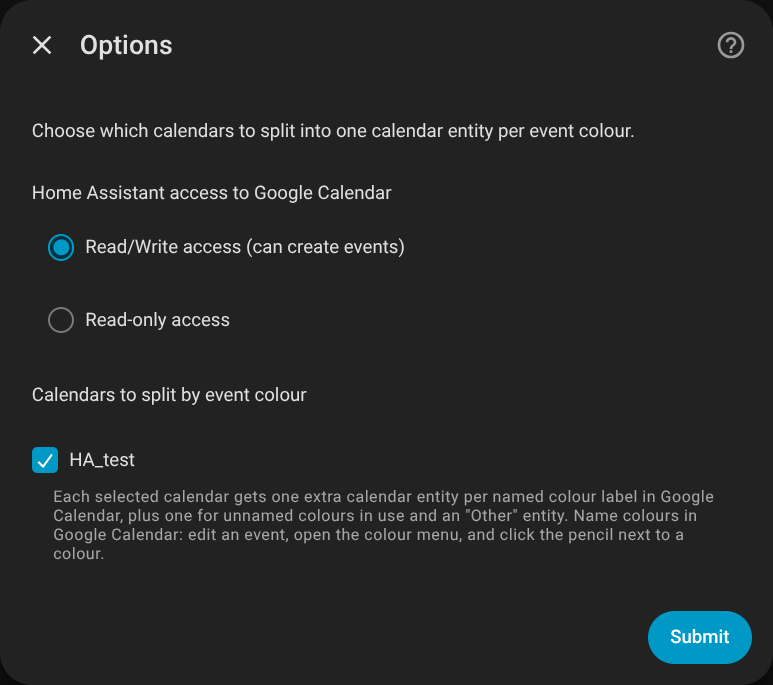
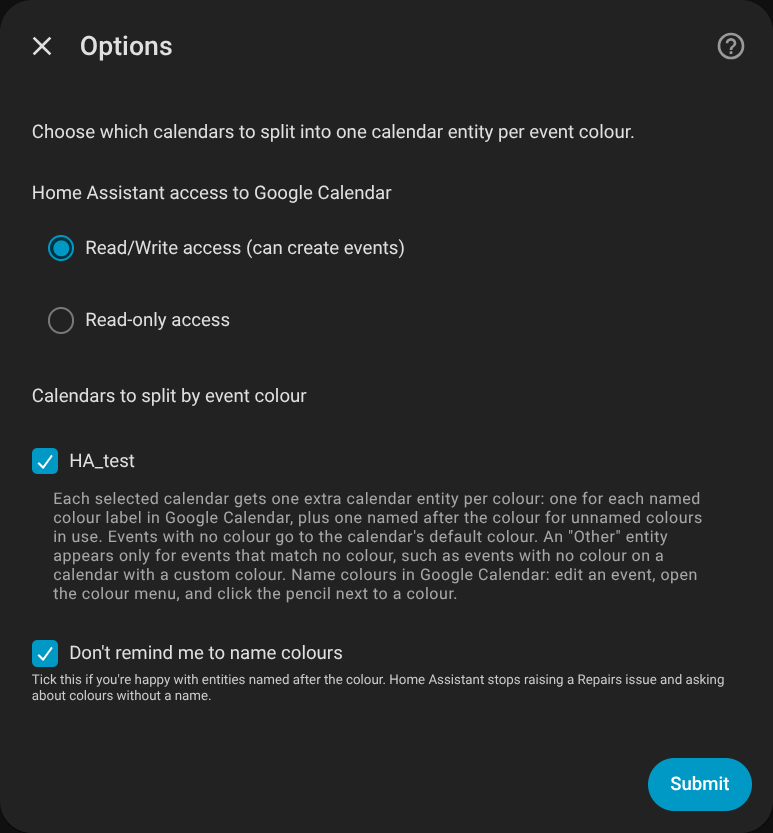
Update screenshots for the new option and Other only when needed
- 02: options dialog with the new help text and the "Don't remind me to
  name colours" checkbox
- 05, 06: calendar page and Add event dialog without the empty Other
  entity, showing unnamed colours named after the colour

diff --git a/README.md b/README.md
@@ -50,7 +50,7 @@ If a calendar uses colours that have no name yet, you're asked whether to split 
 If you're happy with entities named after the colour, tick **Don't remind me to name colours**. The calendars are then split without asking, and no Repairs issue is raised.
 
 <p>
-  <img src="docs/images/02-configure-split.png" alt="Home Assistant options with Calendars to split by event colour" width="400">
+  <img src="docs/images/02-configure-split.png" alt="Home Assistant options with Calendars to split by event colour and Don't remind me to name colours" width="400">
   <img src="docs/images/03-colours-without-a-name.png" alt="Colours without a name step offering Split now or Wait" width="400">
 </p>
 
